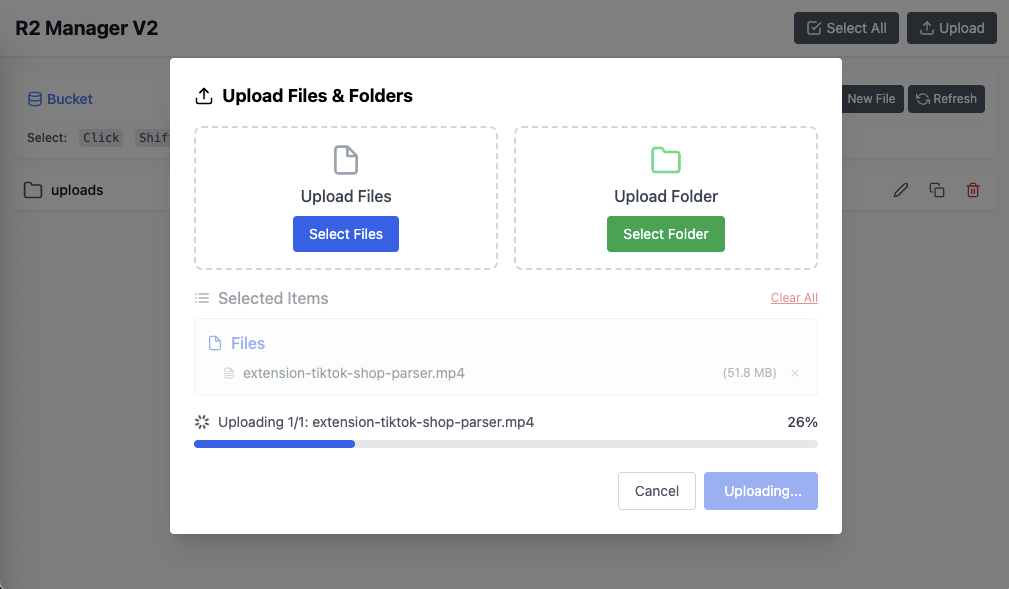
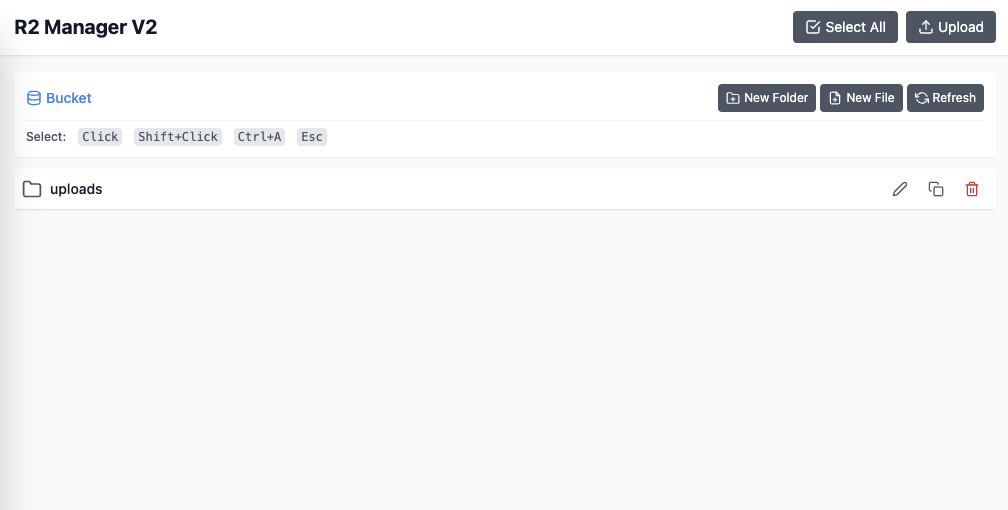
docs: align README screenshot filenames

diff --git a/README.MD b/README.MD
@@ -41,11 +41,11 @@
 
 ### File browser
 
-![R2 File Manager file browser](docs/images/r2-file-manager-upload-progress.png)
+![R2 File Manager file browser](docs/images/r2-file-manager-browser.png)
 
 ### Upload progress
 
-![R2 File Manager multipart upload progress](docs/images/r2-file-manager-browser.png)
+![R2 File Manager multipart upload progress](docs/images/r2-file-manager-upload-progress.png)
 
 ## Prerequisites
 
